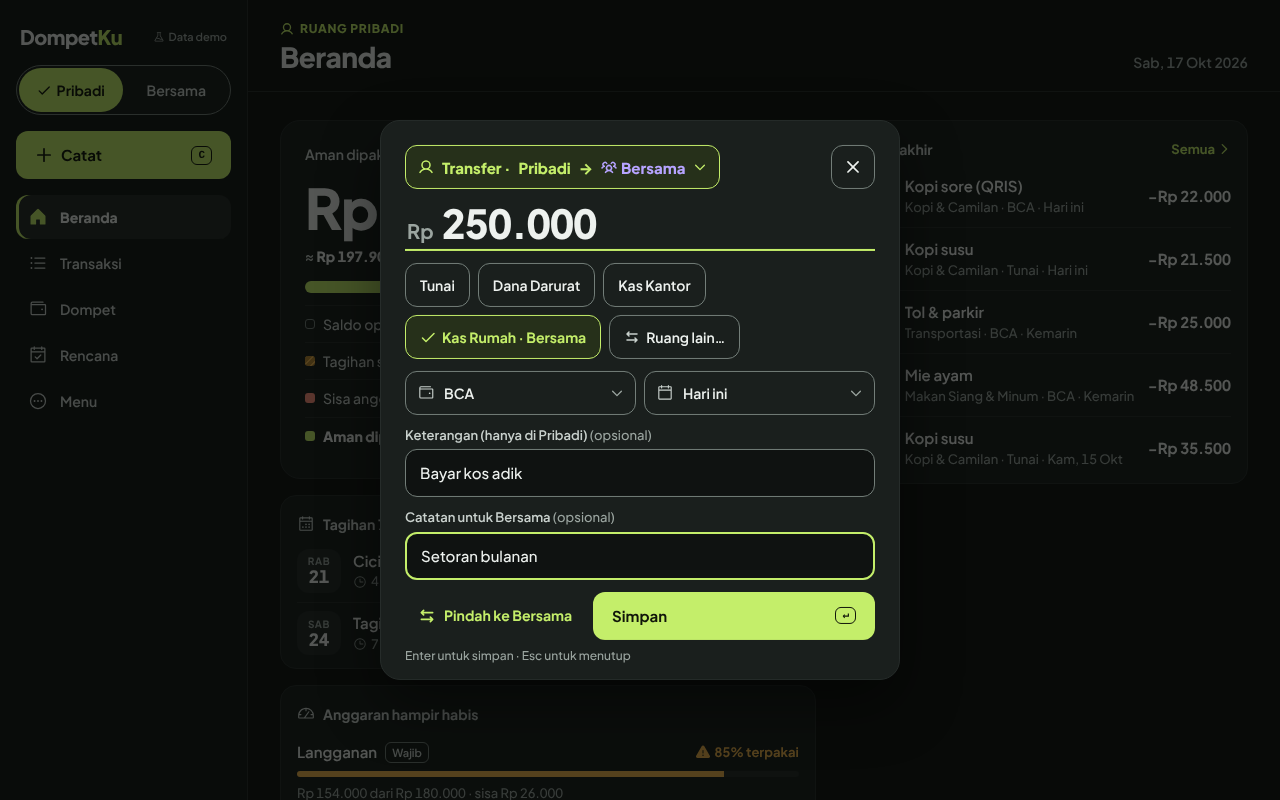
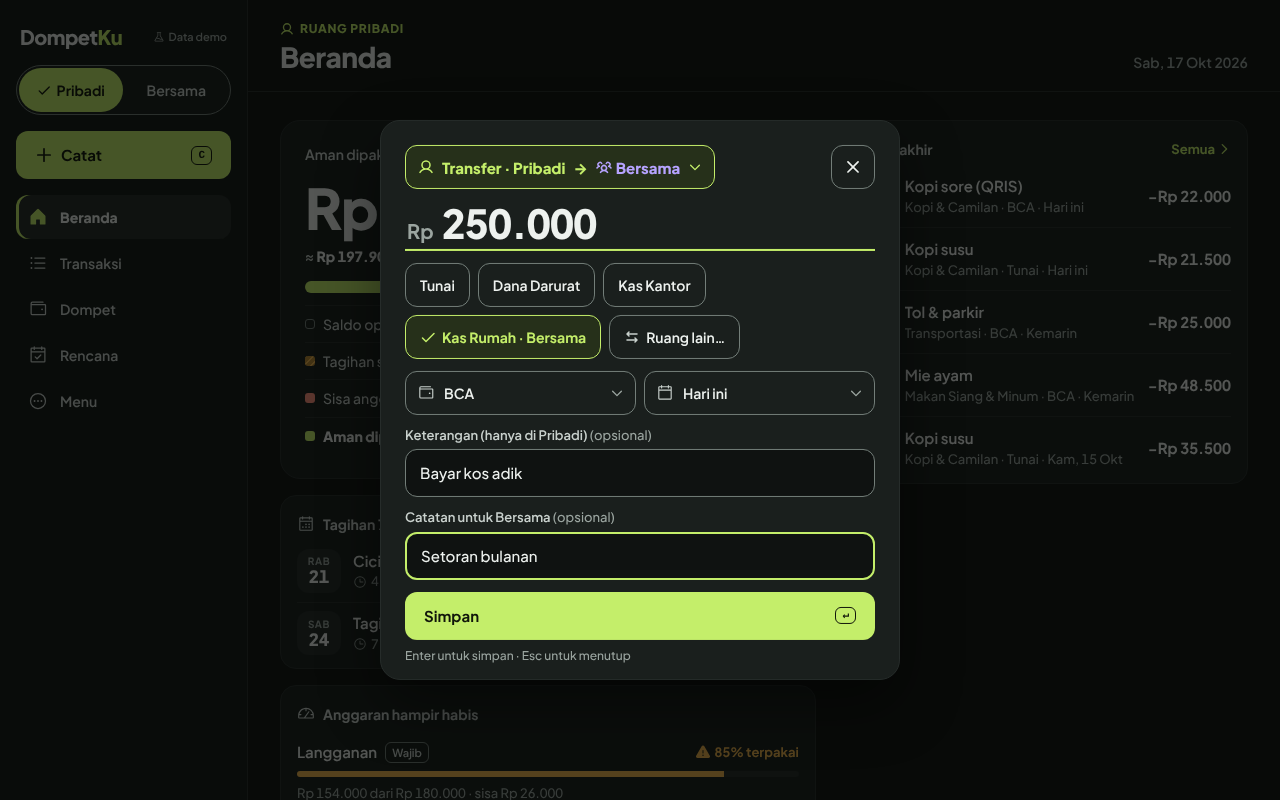
fix(web): perbaikan desain Catat transfer antar ruang dan talangan
Petunjuk Talangan mode keyboard memakai versi pendek utuh, Pindah ke
{Ruang} disembunyikan saat tujuan antar ruang terisi, nama aksesibel
Ruang lain… diawali teks terlihat, spasi ganda judul dirapatkan, tes fokus
kembali; screenshot diregenerasi.

Claude-Session: https://claude.ai/code/session_01AG8bFjH2G9JLWVxX63HBfX

Changed region(s): [[0.3125, 0.7188, 0.5312, 0.8125], [0.4062, 0.1875, 0.5625, 0.2188]]

diff --git a/apps/web/src/features/catat/catat-sheet.s7.test.tsx b/apps/web/src/features/catat/catat-sheet.s7.test.tsx
@@ -49,7 +49,7 @@ describe('CatatSheet · transfer antar ruang (S7-C1)', () => {
     await user.type(screen.getByRole('textbox', { name: 'Nominal' }), '20000');
     // Tanpa tujuan antar ruang tidak ada kolom catatan Bersama.
     expect(screen.queryByLabelText(/Catatan untuk Bersama/)).toBeNull();
-    await user.click(screen.getByRole('button', { name: 'Pilih dompet di ruang lain' }));
+    await user.click(screen.getByRole('button', { name: /Ruang lain/ }));
     expect(await screen.findByRole('heading', { name: 'Ke dompet di Bersama' })).toBeTruthy();
     const group = await screen.findByRole('radiogroup', { name: 'Dompet di Bersama' });
     const rows = within(group).getAllByRole('radio');
@@ -84,11 +84,48 @@ describe('CatatSheet · transfer antar ruang (S7-C1)', () => {
     expect(inLeg?.description).toBeUndefined();
   });
 
+  it('nama aksesibel Ruang lain… diawali teks terlihat; Pindah ke… disembunyikan selama tujuan antar ruang terisi; fokus kembali ke chip terpilih', async () => {
+    const user = userEvent.setup();
+    setup();
+    await toTransfer(user);
+    const more = screen.getByRole('button', { name: /^Ruang lain…/ });
+    expect(more.textContent).toContain('Ruang lain…');
+    expect(screen.getByRole('button', { name: /Pindah ke Bersama/ })).toBeTruthy();
+    await user.click(more);
+    await user.click(await screen.findByRole('radio', { name: /Kas Rumah/ }));
+    expect(screen.queryByRole('button', { name: /Pindah ke/ })).toBeNull();
+    await waitFor(() => {
+      expect(document.activeElement).toBe(
+        screen.getByRole('radio', { name: 'Kas Rumah · Bersama' }),
+      );
+    });
+    // Tujuan satu ruang dipilih lagi: tombol muncul kembali.
+    await user.click(screen.getByRole('radio', { name: 'Tunai' }));
+    expect(screen.getByRole('button', { name: /Pindah ke Bersama/ })).toBeTruthy();
+    // Kembali dari halaman tanpa memilih: fokus ke Ruang lain….
+    await user.click(screen.getByRole('button', { name: /^Ruang lain…/ }));
+    await screen.findByRole('radiogroup', { name: 'Dompet di Bersama' });
+    await user.click(screen.getByRole('button', { name: 'Kembali ke Transfer' }));
+    await waitFor(() => {
+      expect(document.activeElement).toBe(screen.getByRole('button', { name: /^Ruang lain…/ }));
+    });
+  });
+
+  it('judul dua ruang tanpa spasi ganda', async () => {
+    const user = userEvent.setup();
+    setup();
+    await toTransfer(user);
+    await user.click(screen.getByRole('button', { name: /^Ruang lain…/ }));
+    await user.click(await screen.findByRole('radio', { name: /Kas Rumah/ }));
+    const dialog = screen.getByRole('dialog', { name: 'Transfer · Pribadi → Bersama' });
+    expect(dialog.querySelector('h2')?.textContent).not.toMatch(/\s{2,}/);
+  });
+
   it('Dari Bersama: halaman menyebut Pribadi; Dompet Kantor tidak ada', async () => {
     const user = userEvent.setup();
     setup('bersama');
     await toTransfer(user, 'Bersama');
-    await user.click(screen.getByRole('button', { name: 'Pilih dompet di ruang lain' }));
+    await user.click(screen.getByRole('button', { name: /Ruang lain/ }));
     const group = await screen.findByRole('radiogroup', { name: 'Dompet di Pribadi' });
     expect(within(group).queryByText(/Kantor/)).toBeNull();
     expect(within(group).getAllByRole('radio').length).toBeGreaterThan(0);
@@ -99,11 +136,11 @@ describe('CatatSheet · transfer antar ruang (S7-C1)', () => {
     setup();
     await toTransfer(user);
     await user.selectOptions(screen.getByLabelText('Dari dompet'), 'acc-kantor');
-    expect(screen.queryByRole('button', { name: 'Pilih dompet di ruang lain' })).toBeNull();
+    expect(screen.queryByRole('button', { name: /Ruang lain/ })).toBeNull();
     expect(screen.getByText('Dompet Kantor tidak bisa ikut transfer antar ruang.')).toBeTruthy();
     // Kembali ke dompet biasa, pilih tujuan antar ruang: Kantor hilang dari pilihan sumber.
     await user.selectOptions(screen.getByLabelText('Dari dompet'), 'acc-bca');
-    await user.click(screen.getByRole('button', { name: 'Pilih dompet di ruang lain' }));
+    await user.click(screen.getByRole('button', { name: /Ruang lain/ }));
     await user.click(await screen.findByRole('radio', { name: /Kas Rumah/ }));
     const options = within(screen.getByLabelText('Dari dompet')).getAllByRole('option');
     expect(options.map((o) => o.textContent)).not.toContain('Kantor');
@@ -114,18 +151,18 @@ describe('CatatSheet · transfer antar ruang (S7-C1)', () => {
     const user = userEvent.setup();
     setup();
     await toTransfer(user);
-    await user.click(screen.getByRole('button', { name: 'Pilih dompet di ruang lain' }));
+    await user.click(screen.getByRole('button', { name: /Ruang lain/ }));
     await screen.findByRole('radiogroup', { name: 'Dompet di Bersama' });
     await user.keyboard('{Escape}');
     expect(screen.getByRole('dialog', { name: 'Transfer · Pribadi' })).toBeTruthy();
-    expect(screen.getByRole('button', { name: 'Pilih dompet di ruang lain' })).toBeTruthy();
+    expect(screen.getByRole('button', { name: /Ruang lain/ })).toBeTruthy();
   });
 
   it('ruang tujuan tanpa dompet: keadaan kosong + Tambah dompet', async () => {
     const user = userEvent.setup();
     setup('pribadi', (s) => ({ ...s, spaceTransferTargets: () => [] }));
     await toTransfer(user);
-    await user.click(screen.getByRole('button', { name: 'Pilih dompet di ruang lain' }));
+    await user.click(screen.getByRole('button', { name: /Ruang lain/ }));
     expect(await screen.findByText('Belum ada dompet di Bersama.')).toBeTruthy();
     expect(screen.getByRole('button', { name: 'Tambah dompet' })).toBeTruthy();
   });
@@ -139,7 +176,7 @@ describe('CatatSheet · transfer antar ruang (S7-C1)', () => {
         fail ? Promise.reject(new Error('net')) : Promise.resolve(s.spaceTransferTargets(r)),
     }));
     await toTransfer(user);
-    await user.click(screen.getByRole('button', { name: 'Pilih dompet di ruang lain' }));
+    await user.click(screen.getByRole('button', { name: /Ruang lain/ }));
     expect(await screen.findByText(/Dompet belum bisa dimuat/)).toBeTruthy();
     fail = false;
     await user.click(screen.getByRole('button', { name: 'Coba lagi' }));

diff --git a/apps/web/src/features/catat/catat-sheet.tsx b/apps/web/src/features/catat/catat-sheet.tsx
@@ -58,6 +58,8 @@ const SpaceTargetPage = lazy(() => import('./space-target-page'));
 const TALANGAN_COPY = {
   label: 'Talangan kantor',
   hint: 'Tidak masuk hitungan pribadi. Tercatat di Menunggu reimburse.',
+  /** Mode keyboard: satu baris utuh; teks lengkap tetap terbaca lewat `aria-describedby`. */
+  hintShort: 'Tidak masuk hitungan pribadi.',
 } as const;
 
 const NOTE_MAX = 200;
@@ -441,18 +443,21 @@ function CatatSession({
         {saving ? CATAT_COPY.menyimpan : ''}
       </p>
       <div className="flex items-center gap-2">
-        <Button
-          variant="text"
-          size="sm"
-          className="px-2.5"
-          aria-disabled={saving || undefined}
-          onClick={() => {
-            c.switchRuang(target);
-          }}
-        >
-          <ArrowsLeftRightIcon size={18} weight="bold" />
-          <span className={moveLabelClass}>Pindah ke {ruangLabel[target]}</span>
-        </Button>
+        {/* Transfer antar ruang sedang disusun: pindah ruang akan membuang pilihannya, jadi disembunyikan. */}
+        {draft.toRuang === undefined ? (
+          <Button
+            variant="text"
+            size="sm"
+            className="px-2.5"
+            aria-disabled={saving || undefined}
+            onClick={() => {
+              c.switchRuang(target);
+            }}
+          >
+            <ArrowsLeftRightIcon size={18} weight="bold" />
+            <span className={moveLabelClass}>Pindah ke {ruangLabel[target]}</span>
+          </Button>
+        ) : null}
         <Button
           ref={primaryRef}
           type="submit"
@@ -653,9 +658,16 @@ function CatatSession({
             >
               <InfoIcon size={14} className={`shrink-0 ${compact ? '' : 'mt-0.5'}`} />
               {/* Mode keyboard: satu baris (tinggi sheet); selain itu teks utuh boleh membungkus. */}
-              <span className={compact ? 'min-w-0 truncate' : 'min-w-0 text-pretty'}>
-                {TALANGAN_COPY.hint}
-              </span>
+              {compact ? (
+                <>
+                  <span aria-hidden="true" data-testid="talangan-hint" className="min-w-0 truncate">
+                    {TALANGAN_COPY.hintShort}
+                  </span>
+                  <span className="sr-only">{TALANGAN_COPY.hint}</span>
+                </>
+              ) : (
+                <span className="min-w-0 text-pretty">{TALANGAN_COPY.hint}</span>
+              )}
             </p>
           ) : null}
           <div className="flex gap-2">

diff --git a/apps/web/tests/e2e/catat-s7.spec.ts b/apps/web/tests/e2e/catat-s7.spec.ts
@@ -200,6 +200,14 @@ for (const size of [
     expect(sw.height).toBeGreaterThanOrEqual(44);
     expect(dompet.width).toBeGreaterThanOrEqual(88);
     expect(tanggal.width).toBeGreaterThanOrEqual(88);
+    // Petunjuk Talangan di mode keyboard: versi pendek utuh satu baris (tidak terpotong).
+    if (size.keyboard) {
+      const hint = sheet.getByTestId('talangan-hint');
+      await expect(hint).toHaveText('Tidak masuk hitungan pribadi.');
+      const cut = await hint.evaluate((el) => el.scrollWidth - el.clientWidth);
+      expect(cut).toBeLessThanOrEqual(0);
+      expect((await hint.boundingBox())?.height ?? 999).toBeLessThanOrEqual(20);
+    }
     // `Hari ini` tidak terpotong: lebar area teks Select tanggal ≥ lebar teksnya (diukur di kanvas).
     const room = await sheet.getByLabel('Tanggal').evaluate((el) => {
       const cs = getComputedStyle(el);

diff --git a/apps/web/src/features/catat/type-menu.tsx b/apps/web/src/features/catat/type-menu.tsx
@@ -65,8 +65,10 @@ export function TypeMenuButton({
       ) : (
         <>
           {/* HP: jenis hanya untuk pembaca layar; kedua ruang tertulis utuh (tidak boleh terpotong). */}
-          <span className="max-tablet:sr-only">{toSpace.head}</span>
-          <span className="shrink-0">{toSpace.from}</span>
+          <span className="shrink-0">
+            <span className="max-tablet:sr-only">{toSpace.head} </span>
+            {toSpace.from}
+          </span>
           <span className="shrink-0">→</span>
           <span data-ruang={toSpace.space} className="flex shrink-0 items-center gap-1 text-ruang">
             <SpaceIcon space={toSpace.space} size={16} />

diff --git a/apps/web/src/features/catat/wallet-picker.tsx b/apps/web/src/features/catat/wallet-picker.tsx
@@ -87,7 +87,7 @@ const noop = () => undefined;
 /** Salinan tetap S7-C1. */
 export const CROSS_COPY = {
   more: 'Ruang lain…',
-  moreLabel: 'Pilih dompet di ruang lain',
+  moreLabel: 'Ruang lain…, pilih dompet di ruang lain',
   kantor: 'Dompet Kantor tidak bisa ikut transfer antar ruang.',
   keterangan: 'Keterangan (hanya di Pribadi)',
   catatan: 'Catatan untuk Bersama',

diff --git a/docs/design/s7-bingkai.md b/docs/design/s7-bingkai.md
@@ -45,7 +45,7 @@ Semua bingkai Catat memakai sheet yang sama; hanya bagian yang berubah yang ditu
 - **Mode ubah (S6-D1):** toggle ikut tampil dengan nilai sekarang. Bila talangan sudah punya reimburse hidup: toggle `aria-disabled` dengan petunjuk `Sudah ada reimburse. Batalkan reimburse itu dulu untuk mengubah ini.` (kode `reimbursement_exists`).
 - **Komponen:** `CatatSheet`, `IconButton` (varian toggle), baris petunjuk (pola `Hint` di `catat-sheet.tsx`).
 - **Token:** `text`, `text-soft`, `accent` (switch aktif), `border`.
-- **Salinan:** `Talangan kantor`; `Tidak masuk hitungan pribadi. Tercatat di Menunggu reimburse.`; toast tambahan `Tersimpan di Pribadi · {Rp} dari {dompet} · Talangan kantor`.
+- **Salinan:** `Talangan kantor`; `Tidak masuk hitungan pribadi. Tercatat di Menunggu reimburse.` (mode keyboard: versi pendek utuh `Tidak masuk hitungan pribadi.`, teks lengkap di `aria-describedby`); toast tambahan `Tersimpan di Pribadi · {Rp} dari {dompet} · Talangan kantor`.
 - **ARIA:** `button role="switch"` `aria-checked`, `aria-describedby` = id petunjuk.
 - **Fokus:** tetap di tombol sesudah diketuk; tidak memindahkan fokus ke tempat lain.
 
@@ -183,7 +183,7 @@ Kode galat mesin dipetakan ke `LedgerError.code` oleh Task 8; salinan di bawah m
 | S7-C1             | `Ruang lain…`; `Ke dompet di {Ruang tujuan}`; `Dompet Kantor tidak bisa ikut transfer antar ruang.`; `Keterangan (hanya di Pribadi)`; `Catatan untuk Bersama`                                                                                                                                                                                                                                                                                                     |
 | S7-C1 placeholder | `Terlihat oleh {Nama anggota lain} di Bersama` (solo: `Terlihat oleh anggota Bersama`)                                                                                                                                                                                                                                                                                                                                                                            |
 | S7-C1 toast       | `Tersimpan di {Ruang} · {Rp} ke {Ruang tujuan}`                                                                                                                                                                                                                                                                                                                                                                                                                   |
-| S7-C2             | `Talangan kantor`; `Tidak masuk hitungan pribadi. Tercatat di Menunggu reimburse.`; ubah: `Sudah ada reimburse. Batalkan reimburse itu dulu untuk mengubah ini.`                                                                                                                                                                                                                                                                                                  |
+| S7-C2             | `Talangan kantor`; `Tidak masuk hitungan pribadi. Tercatat di Menunggu reimburse.`; mode keyboard `Tidak masuk hitungan pribadi.`; ubah: `Sudah ada reimburse. Batalkan reimburse itu dulu untuk mengubah ini.`                                                                                                                                                                                                                                                   |
 | S7-D1             | `Setor ke Bersama`; `Ambil dari Bersama`; `Setoran dari {Nama}`; `Diambil oleh {Nama}`; `Transfer tidak bisa diubah. Batalkan, lalu catat lagi.`; `Hanya {Nama} yang bisa membatalkan transfer ini.`                                                                                                                                                                                                                                                              |
 | S7-D1 dialog      | `Batalkan transfer antar ruang?` + `Kedua sisinya dibatalkan bersamaan, di Pribadi dan Bersama. Saldo kedua dompet kembali. Bisa dipulihkan dari Sampah selama 90 hari.` + `Batalkan transfer` / `Kembali`                                                                                                                                                                                                                                                        |
 | S7-D1 toast       | `Dibatalkan di Pribadi dan Bersama · {Rp}`; `Dipulihkan di Pribadi dan Bersama · {Rp}`; Sampah bukan pencatat `Hanya {Nama} yang bisa memulihkan.`                                                                                                                                                                                                                                                                                                                |

diff --git a/docs/superpowers/handoff/s7-task-10-report.md b/docs/superpowers/handoff/s7-task-10-report.md
@@ -51,3 +51,11 @@ Pemeriksaan sendiri terhadap DESIGN.md dan bingkai: token dan radius sama (chip 
 - Petunjuk Talangan terpotong ellipsis di mode keyboard 360 (`Tercatat di Menu…`), sesuai bingkai (teks lengkap di `aria-describedby`); reviewer desain boleh menilai apakah salinan perlu dipendekkan.
 - Tidak ada e2e mode nyata untuk transfer antar ruang/talangan di Catat (milik Task 17); tes nyata hanya tingkat unit sumber dan action yang di-mock.
 - Dua proses `next-server` yatim (PID 7153, 7449) dan shell skrip controller sudah ada sebelum sesi ini; tidak disentuh.
+
+## Putaran perbaikan 1
+1. Petunjuk Talangan mode keyboard: versi pendek utuh `Tidak masuk hitungan pribadi.` (satu baris, `data-testid="talangan-hint"`), teks lengkap sr-only di elemen `aria-describedby`; di luar mode keyboard tetap teks lengkap. Salinan masuk `s7-bingkai.md` (S7-C2). e2e 360x640: `scrollWidth <= clientWidth`, tinggi <= 20 px, tinggi sheet tetap <= 356 dan tidak bertambah.
+2. Tombol footer `Pindah ke {Ruang}` disembunyikan selama `toRuang` terisi (muncul lagi bila tujuan satu ruang dipilih). Tes unit.
+3. `Ruang lain…` aria-label = `Ruang lain…, pilih dompet di ruang lain` (diawali teks terlihat). Tes unit memeriksa awalan.
+4. Judul dua ruang: gap dan spasi ganda dirapatkan (head dan nama ruang asal satu span, spasi hanya satu). Tes unit: tanpa `\s{2,}`.
+5. Tes fokus: sesudah memilih dompet fokus ke chip terpilih; sesudah Kembali tanpa memilih fokus ke `Ruang lain…`.
+Test-first: tes baru ditulis sesudah perbaikan; RED dibuktikan dengan stash 3 berkas sumber (8 gagal, 2 lolos dari 10), lalu hijau.
